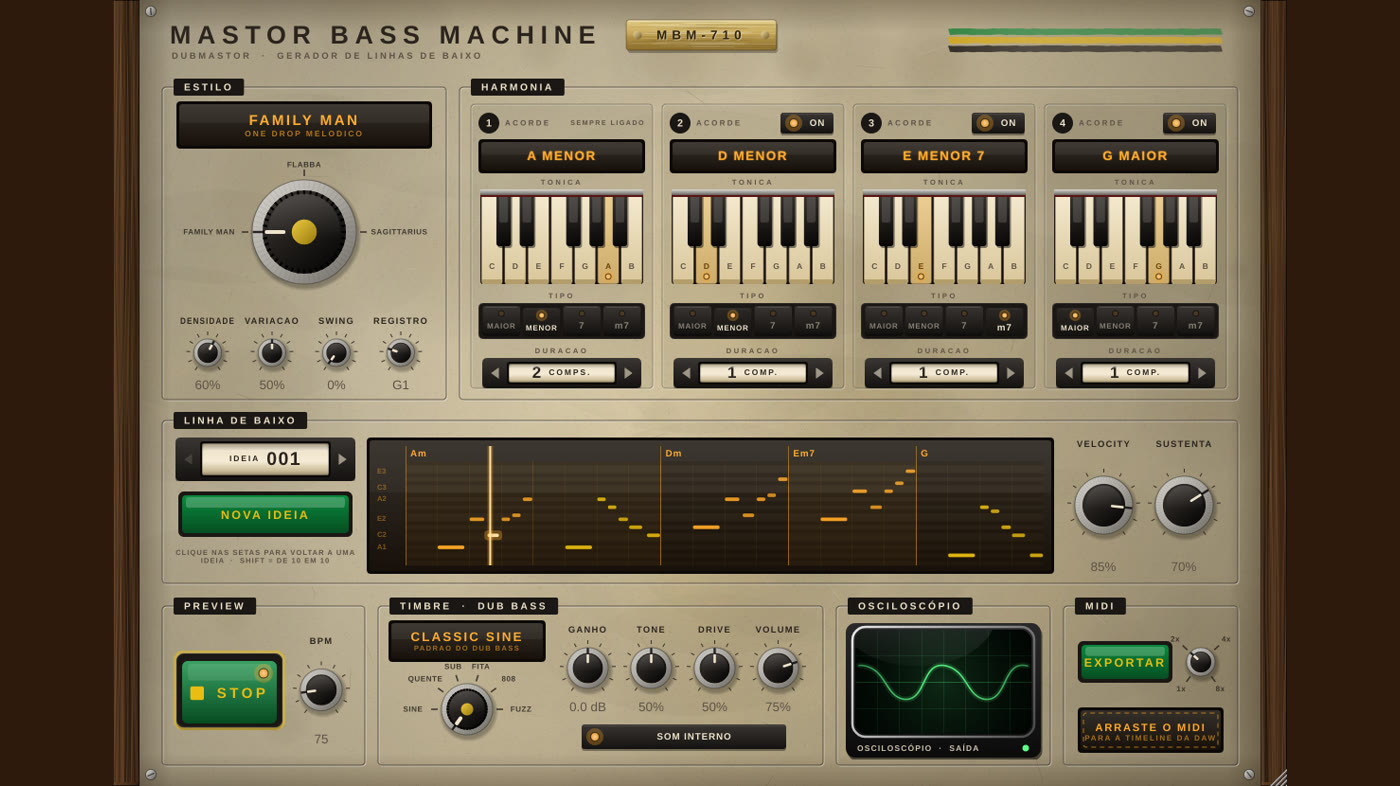
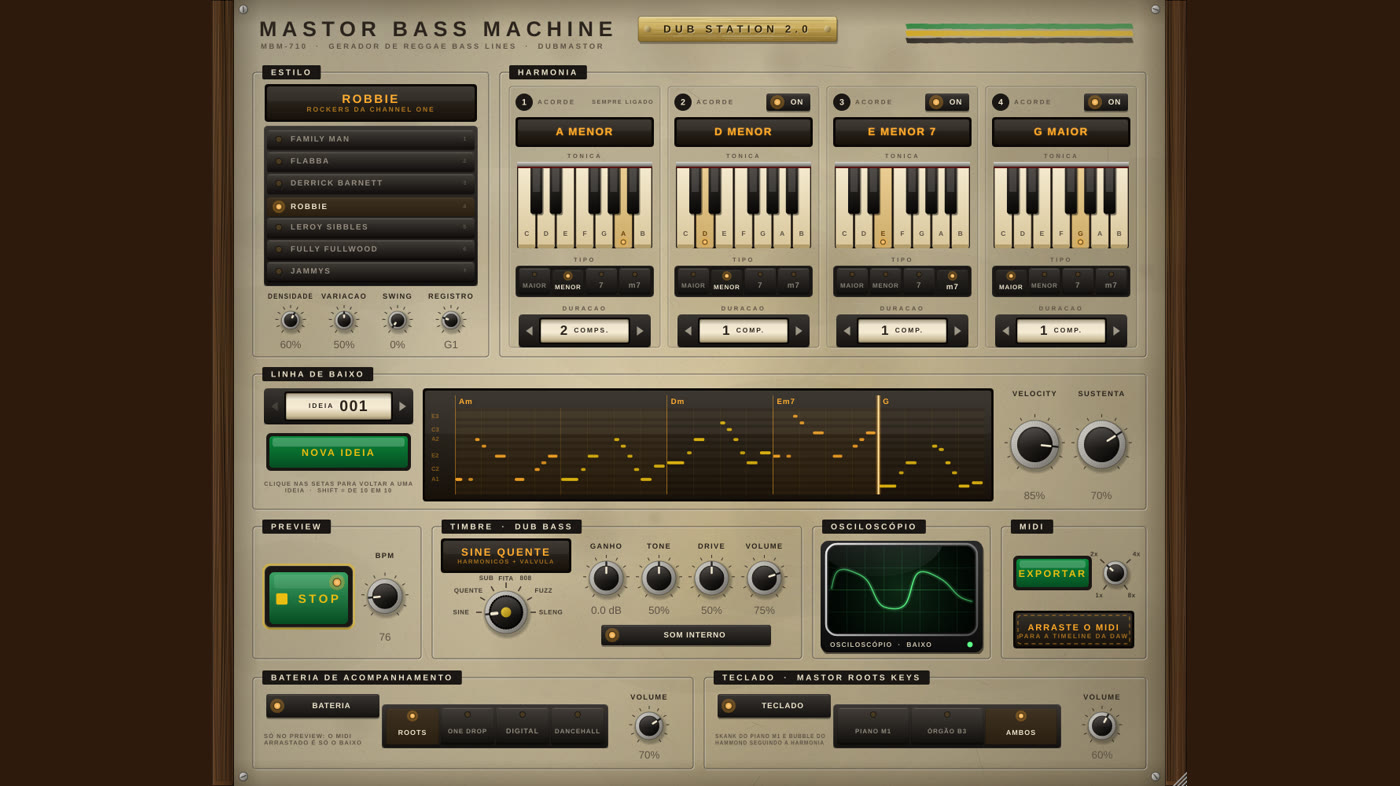
Site: Mastor Bass Machine 2.0 (Gerador de Reggae Bass Lines) com os downloads da release BassMachine-2.0
Claude-Session: https://claude.ai/code/session_01DJAeyZbiJ7iwjCqM3GUBFu

diff --git a/site/index.html b/site/index.html
@@ -216,7 +216,7 @@
       </div>
     </div>
     <p class="signature">DubMastor</p>
-    <p class="lead"><span class="lamp" aria-hidden="true"></span>Novo: o <strong>Mastor Riddim Machine MRM-0420</strong>, que junta harmonia e bateria para começar o riddim em segundos. E mais: filtro big knob estilo King Tubby, eco de fita de três cabeças, reverb de mola, o teclado DubMastor Roots Keys com piano M1 e órgão Hammond, o Dub Chords, que monta a harmonia do riddim, o Dub Bass, baixo de senoide e 808, o Dub Drums, que monta a bateria do riddim, e o Mastor Bass Machine, que sugere a linha de baixo, em plugins gratuitos para <strong>Windows</strong> e <strong>Mac</strong>. Feitos e testados para o Cubase.</p>
+    <p class="lead"><span class="lamp" aria-hidden="true"></span>Novo: o <strong>Mastor Riddim Machine MRM-0420</strong>, que junta harmonia e bateria para começar o riddim em segundos. E mais: filtro big knob estilo King Tubby, eco de fita de três cabeças, reverb de mola, o teclado DubMastor Roots Keys com piano M1 e órgão Hammond, o Dub Chords, que monta a harmonia do riddim, o Dub Bass, baixo de senoide e 808, o Dub Drums, que monta a bateria do riddim, e o Mastor Bass Machine, gerador de reggae bass lines, em plugins gratuitos para <strong>Windows</strong> e <strong>Mac</strong>. Feitos e testados para o Cubase.</p>
   </header>
 
   <main>
@@ -366,21 +366,21 @@
         </article>
 
         <article class="card">
-          <img class="shot" src="img/bassmachine.jpg" alt="Interface do Mastor Bass Machine MBM-710: painel creme com laterais de madeira e plaqueta de latão; chave seletora de estilo Family Man, Flabba e Sagittarius, quatro módulos de acorde com teclado mecânico, visor âmbar com a linha de baixo, botão verde de PLAY, seletor de timbres do Dub Bass com ganho de entrada, osciloscópio verde e área para arrastar o MIDI" width="1400" height="786" loading="lazy">
+          <img class="shot" src="img/bassmachine.jpg" alt="Interface do Mastor Bass Machine MBM-710 2.0: painel creme com laterais de madeira e plaqueta dourada Dub Station 2.0; botoeira de sete teclas com os baixistas, quatro módulos de acorde com teclado mecânico, visor âmbar com a linha de baixo, botão verde de PLAY, timbres do Dub Bass, osciloscópio verde e, embaixo, a bateria de acompanhamento e o teclado do Roots Keys" width="1400" height="786" loading="lazy">
           <div class="body">
-            <h3>Mastor Bass Machine <small>MBM-710 · 1.0</small></h3>
-            <p>Gerador de sugestões de linha de baixo em MIDI. Escolha os acordes e o estilo do baixista, ouça com o som do Dub Bass e arraste a linha para a timeline para editar.</p>
+            <h3>Mastor Bass Machine <small>2.0</small></h3>
+            <p><strong>Gerador de Reggae Bass Lines.</strong> Escolha os acordes e o baixista, ouça com o som do Dub Bass, a bateria e o teclado do Roots Keys, e arraste a linha de baixo em MIDI para a timeline para editar.</p>
             <ul>
-              <li>Chave de estilo: Family Man (one drop melódico), Flabba (rub-a-dub hipnótico) e Sagittarius (dancehall ao vivo)</li>
-              <li>Harmonia de até 4 acordes (maior, menor, 7, m7), de meio a 8 compassos</li>
-              <li>IDEIA numerada e botão NOVA IDEIA, com densidade, variação, swing e registro</li>
-              <li>PLAY de preview com os timbres do Dub Bass (Classic Sine, Sub, Fita, 808…), ganho de entrada e osciloscópio de tubo verde</li>
-              <li>Arraste o MIDI para a DAW ou exporte o .mid</li>
+              <li>Botoeira com 7 baixistas: Family Man, Flabba, Derrick Barnett, Robbie, Leroy Sibbles, Fully Fullwood e Jammys (Sleng Teng)</li>
+              <li>Harmonia de até 4 acordes (maior, menor, 7, m7), IDEIA numerada e NOVA IDEIA</li>
+              <li>Timbres do Dub Bass no preview, com o novo SLENG TENG, ganho de entrada e osciloscópio</li>
+              <li>Bateria de acompanhamento Roots, One Drop, Digital e Dancehall</li>
+              <li>Teclado do Mastor Roots Keys: skank do piano M1, bubble do órgão B3 ou os dois</li>
             </ul>
             <div class="formats">Instrumento / gerador MIDI · Windows: VST3 + standalone · Mac: VST3, AU + standalone (Intel e Apple Silicon)</div>
             <div class="dl">
-              <a class="btn" href="https://github.com/dubmastor/DubMastor-DubStation-/releases/download/BassMachine-1.0/MastorBassMachine-Windows.zip">⬇ Windows<span>VST3 · zip</span></a>
-              <a class="btn alt" href="https://github.com/dubmastor/DubMastor-DubStation-/releases/download/BassMachine-1.0/MastorBassMachine-macOS.zip">⬇ Mac<span>VST3 + AU · zip</span></a>
+              <a class="btn" href="https://github.com/dubmastor/DubMastor-DubStation-/releases/download/BassMachine-2.0/MastorBassMachine-Windows.zip">⬇ Windows<span>VST3 · zip</span></a>
+              <a class="btn alt" href="https://github.com/dubmastor/DubMastor-DubStation-/releases/download/BassMachine-2.0/MastorBassMachine-macOS.zip">⬇ Mac<span>VST3 + AU · zip</span></a>
             </div>
           </div>
         </article>
